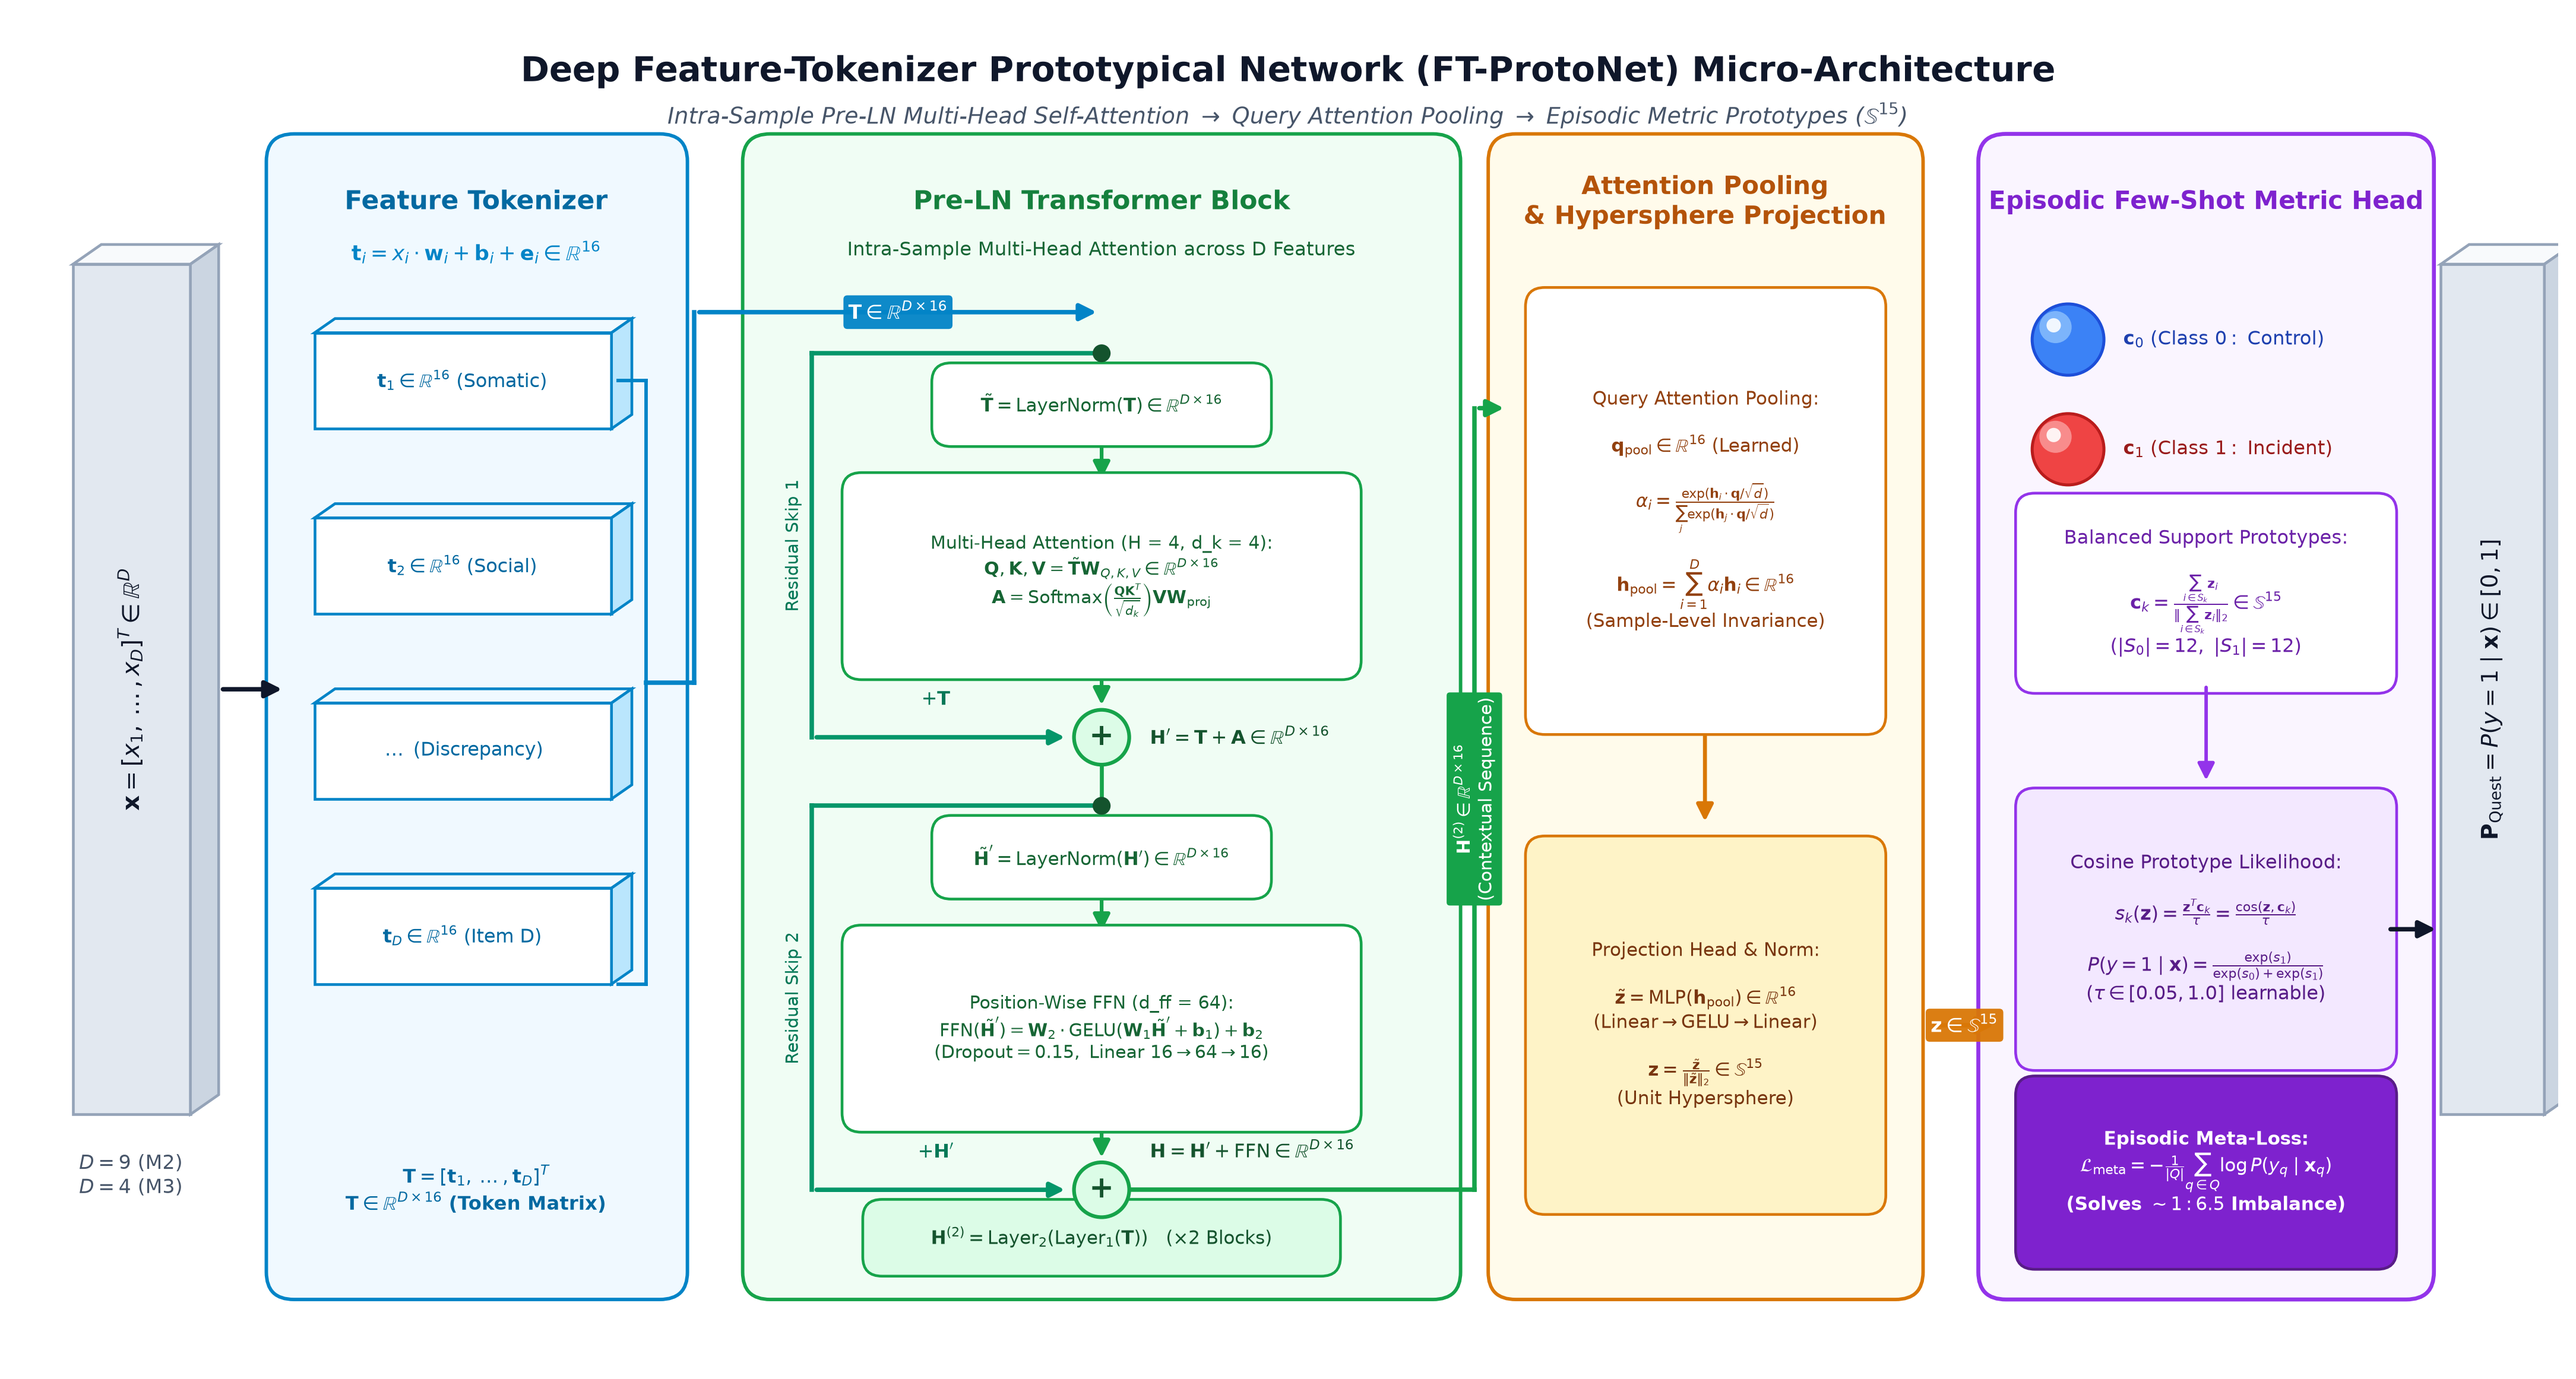
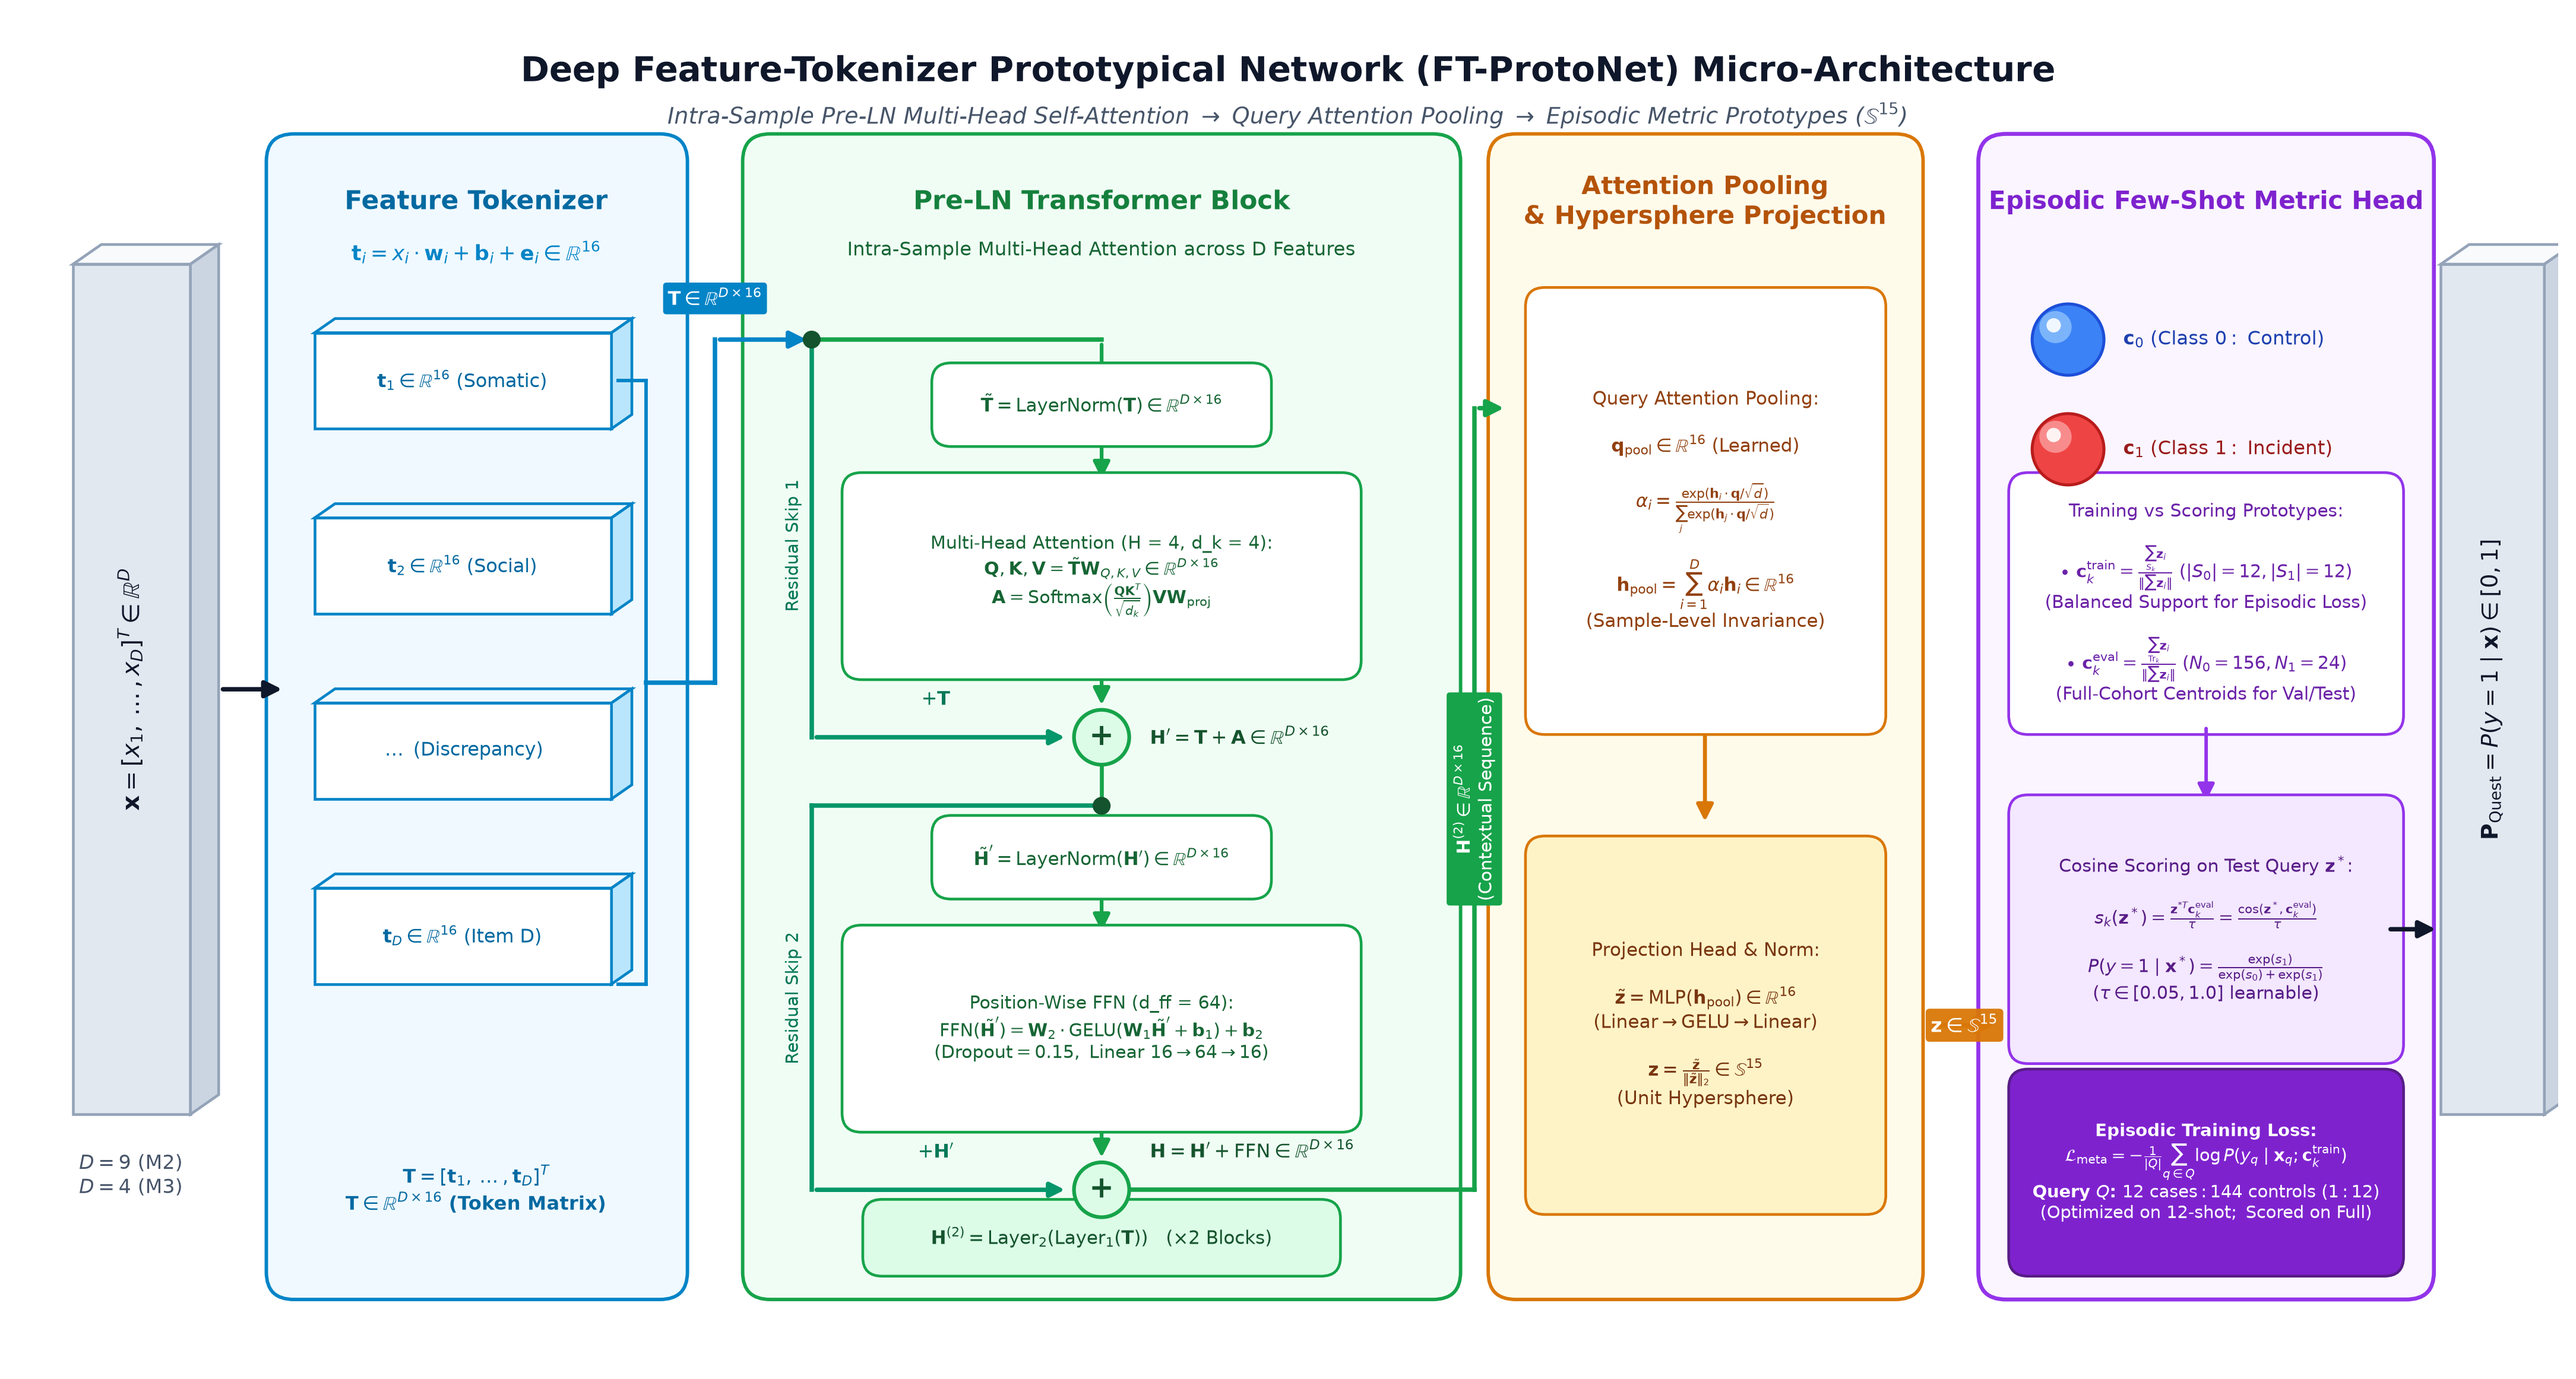
Fix Transformer entry routing and accurately reflect episodic training vs full-cohort scoring prototypes in Fig 4

diff --git a/code/generate_publication_architectures.py b/code/generate_publication_architectures.py
@@ -709,9 +709,12 @@ def build_fig4():
             color='#0369A1', fontsize=7.8, fontweight='bold', zorder=25)
 
     # Clean flow from Tokenizer into Transformer at the TOP of Column 3
-    ax.plot([4.55, 4.90], [5.15, 5.15], color='#0284C7', lw=1.8, zorder=15)
-    ax.plot([4.90, 4.90], [5.15, 7.85], color='#0284C7', lw=1.8, zorder=15)
-    draw_arrow(ax, 4.90, 7.85, 7.85, 7.85, color='#0284C7', lw=1.8, badge=r'$\mathbf{T} \in \mathbb{R}^{D \times 16}$', badge_col='#0284C7', zorder=15)
+    ax.plot([4.55, 5.05], [5.15, 5.15], color='#0284C7', lw=1.8, zorder=15)
+    ax.plot([5.05, 5.05], [5.15, 7.65], color='#0284C7', lw=1.8, zorder=15)
+    draw_arrow(ax, 5.05, 7.65, 5.75, 7.65, color='#0284C7', lw=1.8, zorder=15)
+    bbox_tok_exit = dict(boxstyle="round,pad=0.25,rounding_size=0.18", facecolor='#0284C7', edgecolor='none')
+    ax.text(5.05, 7.95, r"$\mathbf{T} \in \mathbb{R}^{D \times 16}$",
+            ha='center', va='center', color='white', fontsize=7.6, fontweight='bold', bbox=bbox_tok_exit, zorder=25)
 
     # -------------------------------------------------------------------------
     # COLUMN 3: INTRA-SAMPLE MULTI-HEAD SELF-ATTENTION TRANSFORMER (Center Panel)
@@ -725,14 +728,17 @@ def build_fig4():
     ax.text(7.85, 8.30, r"$\mathrm{Intra\text{-}Sample\ Multi\text{-}Head\ Attention\ across\ D\ Features}$", ha='center', va='center',
             color='#166534', fontsize=7.8, fontstyle='italic', zorder=25)
     
-    # Branch Point 1 (Solid Dot)
-    draw_branch_dot(ax, 7.85, 7.55, r=0.065, col='#14532D', zorder=25)
+    # Branch Point 1: Input split at entrance of bypass lane (x = 5.75, y = 7.65)
+    draw_branch_dot(ax, 5.75, 7.65, r=0.065, col='#14532D', zorder=25)
+
+    # Main Branch: Extends from Branch Point 1 across to Centerline and drops into LayerNorm 1
+    ax.plot([5.75, 7.85], [7.65, 7.65], color='#16A34A', lw=1.8, zorder=15)
+    draw_arrow(ax, 7.85, 7.65, 7.85, 6.95, color='#16A34A', lw=1.5, zorder=15)
 
     # --- SUB-LAYER 1: PRE-LN MULTI-HEAD ATTENTION ---
     # LayerNorm 1 Pill
     draw_pill(ax, 6.70, 6.95, 2.30, 0.45, text=r"$\tilde{\mathbf{T}} = \mathrm{LayerNorm}(\mathbf{T}) \in \mathbb{R}^{D \times 16}$",
               face_col='#FFFFFF', edge_col='#16A34A', text_col='#166534', font_size=7.4, font_weight='normal')
-    draw_arrow(ax, 7.85, 7.55, 7.85, 6.95, color='#16A34A', lw=1.5, zorder=15)
 
     # Multi-Head Self-Attention Pill
     draw_pill(ax, 6.05, 5.25, 3.60, 1.35,
@@ -745,9 +751,8 @@ def build_fig4():
     # Arrow from MHA into Addition Node 1
     draw_arrow(ax, 7.85, 5.25, 7.85, 4.95, color='#16A34A', lw=1.5, zorder=15)
 
-    # Residual Skip Connection 1 (Branch 1 -> Left -> Down -> Addition Circle 1)
-    ax.plot([7.85, 5.75], [7.55, 7.55], color='#059669', lw=1.8, zorder=20)
-    ax.plot([5.75, 5.75], [7.55, 4.75], color='#059669', lw=1.8, zorder=20)
+    # Residual Skip Connection 1 (from Branch Point 1 down the bypass lane into Addition Circle 1)
+    ax.plot([5.75, 5.75], [7.65, 4.75], color='#059669', lw=1.8, zorder=20)
     ax.annotate('', xy=(7.62, 4.75), xytext=(5.75, 4.75),
                 arrowprops=dict(arrowstyle="-|>", lw=1.8, color='#059669', mutation_scale=12), zorder=20)
     ax.text(5.62, 6.15, r"$\mathrm{Residual\ Skip\ 1}$", ha='center', va='center',
@@ -860,29 +865,32 @@ def build_fig4():
     ax.text(15.25, 6.85, r"$\mathbf{c}_1\ (\mathrm{Class\ 1:\ Incident})$", ha='left', va='center',
             color='#991B1B', fontsize=7.8, fontweight='bold', zorder=25)
 
-    # Prototype Definition Formula Pill
-    draw_pill(ax, 14.55, 5.15, 2.60, 1.30,
-              text="Balanced Support Prototypes:\n\n" +
-                   r"$\mathbf{c}_k = \frac{\sum_{i \in S_k} \mathbf{z}_i}{\|\sum_{i \in S_k} \mathbf{z}_i\|_2} \in \mathbb{S}^{15}$" + "\n" +
-                   r"$(|S_0|=12,\ |S_1|=12)$",
-              face_col='#FFFFFF', edge_col='#9333EA', text_col='#6B21A8', font_size=7.6, font_weight='normal')
+    # Prototype Definition Formula Pill (Disclosing Training vs Evaluation Prototypes)
+    draw_pill(ax, 14.50, 4.85, 2.70, 1.75,
+              text="Training vs Scoring Prototypes:\n\n" +
+                   r"$\bullet\ \mathbf{c}_k^{\mathrm{train}} = \frac{\sum_{S_k} \mathbf{z}_i}{\|\sum \mathbf{z}_i\|}\ (|S_0|=12, |S_1|=12)$" + "\n" +
+                   r"$(\mathrm{Balanced\ Support\ for\ Episodic\ Loss})$" + "\n\n" +
+                   r"$\bullet\ \mathbf{c}_k^{\mathrm{eval}} = \frac{\sum_{\mathrm{Tr}_k} \mathbf{z}_i}{\|\sum \mathbf{z}_i\|}\ (N_0=156, N_1=24)$" + "\n" +
+                   r"$(\mathrm{Full\text{-}Cohort\ Centroids\ for\ Val/Test})$",
+              face_col='#FFFFFF', edge_col='#9333EA', text_col='#6B21A8', font_size=7.1, font_weight='normal')
 
-    draw_arrow(ax, 15.85, 5.15, 15.85, 4.40, color='#9333EA', lw=1.4, zorder=20)
+    draw_arrow(ax, 15.85, 4.85, 15.85, 4.25, color='#9333EA', lw=1.4, zorder=20)
 
-    # Cosine Similarity Logits & Softmax Probability Pill
-    draw_pill(ax, 14.55, 2.40, 2.60, 1.90,
-              text="Cosine Prototype Likelihood:\n\n" +
-                   r"$s_k(\mathbf{z}) = \frac{\mathbf{z}^T \mathbf{c}_k}{\tau} = \frac{\cos(\mathbf{z}, \mathbf{c}_k)}{\tau}$" + "\n\n" +
-                   r"$P(y = 1 \mid \mathbf{x}) = \frac{\exp(s_1)}{\exp(s_0) + \exp(s_1)}$" + "\n" +
+    # Cosine Similarity Logits & Softmax Probability Pill (Scored with Eval Prototypes)
+    draw_pill(ax, 14.50, 2.45, 2.70, 1.80,
+              text=r"Cosine Scoring on Test Query $\mathbf{z}^*$:" + "\n\n" +
+                   r"$s_k(\mathbf{z}^*) = \frac{\mathbf{z}^{*T} \mathbf{c}_k^{\mathrm{eval}}}{\tau} = \frac{\cos(\mathbf{z}^*, \mathbf{c}_k^{\mathrm{eval}})}{\tau}$" + "\n\n" +
+                   r"$P(y = 1 \mid \mathbf{x}^*) = \frac{\exp(s_1)}{\exp(s_0) + \exp(s_1)}$" + "\n" +
                    r"$(\tau \in [0.05, 1.0]\ \mathrm{learnable})$",
-              face_col='#F3E8FF', edge_col='#9333EA', text_col='#581C87', font_size=7.6, font_weight='normal')
+              face_col='#F3E8FF', edge_col='#9333EA', text_col='#581C87', font_size=7.2, font_weight='normal')
 
-    # Episodic Optimization Loss Pill
-    draw_pill(ax, 14.55, 0.95, 2.60, 1.25,
-              text="Episodic Meta-Loss:\n" +
-                   r"$\mathcal{L}_{\mathrm{meta}} = -\frac{1}{|Q|} \sum_{q \in Q} \log P(y_q \mid \mathbf{x}_q)$" + "\n" +
-                   r"(Solves $\sim 1:6.5$ Imbalance)",
-              face_col='#7E22CE', edge_col='#581C87', text_col='#FFFFFF', font_size=7.4, font_weight='bold')
+    # Episodic Optimization Loss Pill (Revealing Query Set Imbalance: 12 cases vs 144 controls = 1:12)
+    draw_pill(ax, 14.50, 0.90, 2.70, 1.35,
+              text="Episodic Training Loss:\n" +
+                   r"$\mathcal{L}_{\mathrm{meta}} = -\frac{1}{|Q|} \sum_{q \in Q} \log P(y_q \mid \mathbf{x}_q; \mathbf{c}_k^{\mathrm{train}})$" + "\n" +
+                   r"Query $Q$: $12\ \mathrm{cases} : 144\ \mathrm{controls}\ (1:12)$" + "\n" +
+                   r"$(\mathrm{Optimized\ on\ 12\text{-}shot;\ Scored\ on\ Full})$",
+              face_col='#7E22CE', edge_col='#581C87', text_col='#FFFFFF', font_size=6.9, font_weight='bold')
 
     draw_arrow(ax, 17.15, 3.35, 17.55, 3.35, color='#0F172A', lw=1.8, zorder=20)
 
